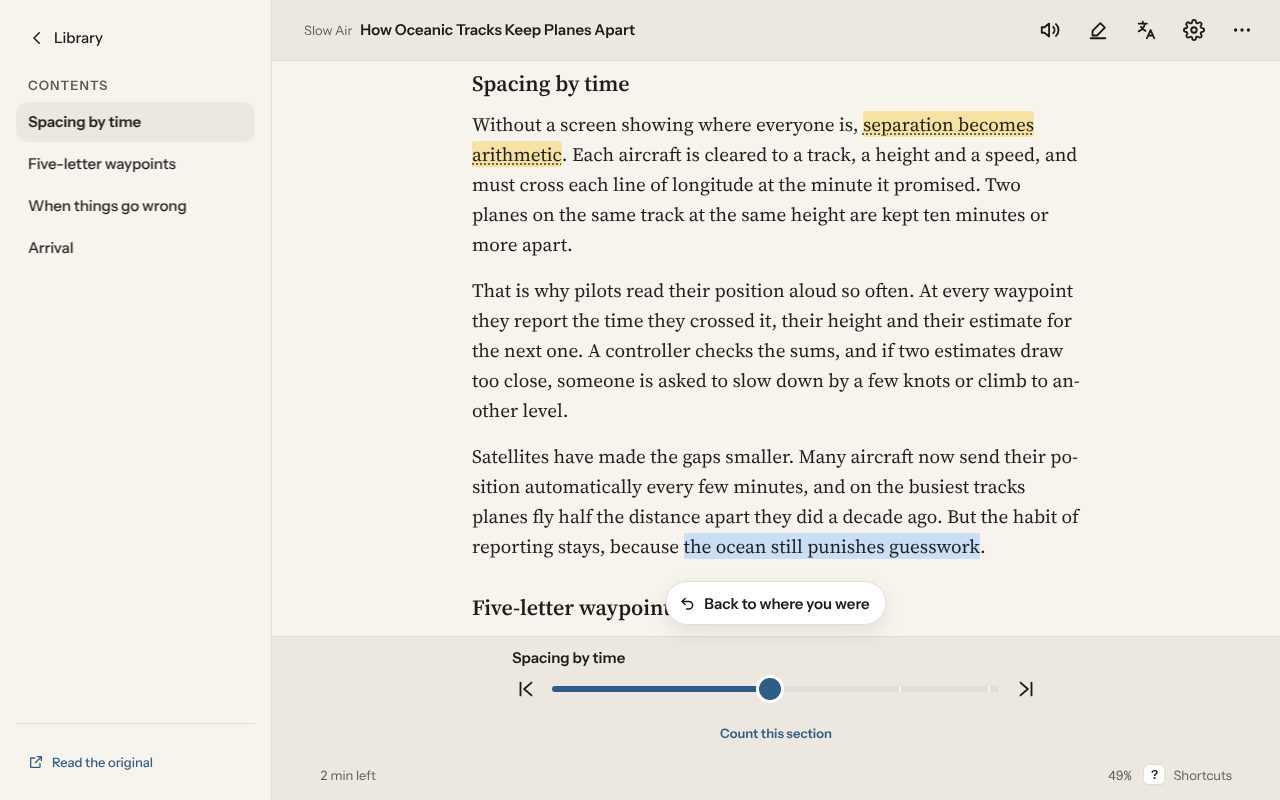
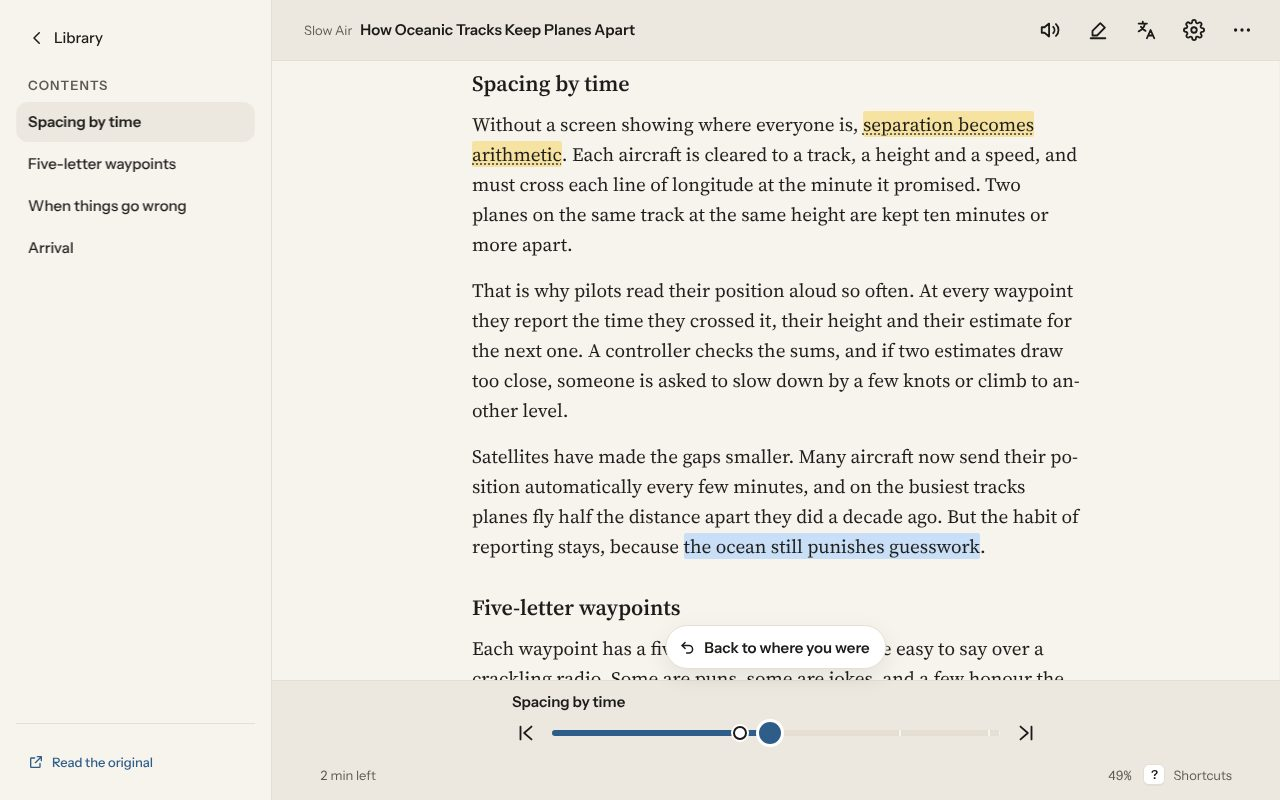
Release 1.48.4: skim mark, Time left in, Drive pick row (#191)
* Release 1.48.0: compact Settings with search, drop-downs, help behind ?, Credits

Every Settings row is a name and one short line; the explanation sits
behind a ? on the section heading. A search box at the top finds any
setting from the screens themselves. Option lists are drop-down rows,
themes a swatch grid. About gets Credits. Presses, switches and
drop-downs answer with motion.

Claude-Session: https://claude.ai/code/session_01CFeKri88aqbarNXwJJ7zZ1

* Credits lists only code, fonts and services

Daniel asked for no names in Credits; the commit history is the record.

Claude-Session: https://claude.ai/code/session_01CFeKri88aqbarNXwJJ7zZ1

* Credits comment matches

Claude-Session: https://claude.ai/code/session_01CFeKri88aqbarNXwJJ7zZ1

* Credits comment, second line

Claude-Session: https://claude.ai/code/session_01CFeKri88aqbarNXwJJ7zZ1

* Preview builds: a branch's build from About, and back to the release

Every branch with an open pull request gets its APK on the pre-release
preview-<branch> (tools/preview-release.sh, remade on each push; the iOS
workflow adds the IPA; preview-cleanup.yml removes it with the branch).
Settings > About > Preview builds lists them from the public releases
list, installs one through the update download, and Back to the release
puts the released version back; a branch that raised APP_VERSION needs
an uninstall and the row says so. app-build.json carries the branch and
[…]

Changed region(s): [[0.375, 0.75, 0.8125, 0.9375]]

diff --git a/index.html b/index.html
@@ -8,8 +8,8 @@
   <link rel="manifest" href="manifest.json">
   <link rel="icon" href="icon.svg" type="image/svg+xml">
   <link rel="apple-touch-icon" href="icons/apple-touch-icon.png">
-  <link rel="stylesheet" href="src/fonts.css?v=1.48.3">
-  <link rel="stylesheet" href="src/styles.css?v=1.48.3">
+  <link rel="stylesheet" href="src/fonts.css?v=1.48.4">
+  <link rel="stylesheet" href="src/styles.css?v=1.48.4">
 </head>
 <body>
   <div class="app" id="libraryView">
@@ -152,12 +152,11 @@
           <button class="icon-btn" id="skimPrev" type="button" aria-label="Previous chapter">
             <svg width="22" height="22" viewBox="0 0 24 24" fill="none" stroke="currentColor" stroke-width="2" stroke-linecap="round" stroke-linejoin="round" aria-hidden="true"><path d="M6 5v14M18 5l-8 7 8 7"></path></svg>
           </button>
-          <div class="skim-track" id="skimTrack" role="slider" tabindex="0" aria-label="Skim" aria-valuemin="0" aria-valuemax="100" aria-valuenow="0"><span class="skim-rail"><span class="skim-fill" id="skimFill"></span><span class="skim-ticks" id="skimTicks"></span></span><span class="skim-knob" id="skimKnob"></span></div>
+          <div class="skim-track" id="skimTrack" role="slider" tabindex="0" aria-label="Skim" aria-valuemin="0" aria-valuemax="100" aria-valuenow="0"><span class="skim-rail"><span class="skim-fill" id="skimFill"></span><span class="skim-ticks" id="skimTicks"></span></span><span class="skim-from" id="skimFrom" hidden></span><span class="skim-knob" id="skimKnob"></span></div>
           <button class="icon-btn" id="skimNext" type="button" aria-label="Next chapter">
             <svg width="22" height="22" viewBox="0 0 24 24" fill="none" stroke="currentColor" stroke-width="2" stroke-linecap="round" stroke-linejoin="round" aria-hidden="true"><path d="M18 5v14M6 5l8 7-8 7"></path></svg>
           </button>
         </div>
-        <button class="skim-left" id="skimLeft" type="button" hidden></button>
       </div>
       <div class="read-left">
         <span class="read-section" id="readSection" dir="auto" aria-hidden="true"></span>
@@ -375,36 +374,36 @@
     </div>
   </section>
 
-  <script src="src/platform.js?v=1.48.3"></script>
-  <script src="src/motion.js?v=1.48.3"></script>
-  <script src="src/vendor/Readability.js?v=1.48.3"></script>
-  <script src="src/store.js?v=1.48.3"></script>
-  <script src="src/save.js?v=1.48.3"></script>
-  <script src="src/feeds.js?v=1.48.3"></script>
-  <script src="src/backup.js?v=1.48.3"></script>
-  <script src="src/imports.js?v=1.48.3"></script>
-  <script src="src/dict.js?v=1.48.3"></script>
-  <script src="src/sync.js?v=1.48.3"></script>
-  <script src="src/drive.js?v=1.48.3"></script>
-  <script src="src/qr.js?v=1.48.3"></script>
-  <script src="src/stats.js?v=1.48.3"></script>
-  <script src="src/epub.js?v=1.48.3"></script>
-  <script src="src/files.js?v=1.48.3"></script>
-  <script src="src/pdf.js?v=1.48.3"></script>
-  <script src="src/reader.js?v=1.48.3"></script>
-  <script src="src/app.js?v=1.48.3"></script>
-  <script src="src/app-reading.js?v=1.48.3"></script>
-  <script src="src/app-cards.js?v=1.48.3"></script>
-  <script src="src/app-downloads.js?v=1.48.3"></script>
-  <script src="src/app-search.js?v=1.48.3"></script>
-  <script src="src/app-draw.js?v=1.48.3"></script>
-  <script src="src/app-jobs.js?v=1.48.3"></script>
-  <script src="src/app-reader.js?v=1.48.3"></script>
-  <script src="src/app-library.js?v=1.48.3"></script>
-  <script src="src/app-saving.js?v=1.48.3"></script>
-  <script src="src/app-places.js?v=1.48.3"></script>
-  <script src="src/app-settings.js?v=1.48.3"></script>
-  <script src="src/app-lock.js?v=1.48.3"></script>
-  <script src="src/app-start.js?v=1.48.3"></script>
+  <script src="src/platform.js?v=1.48.4"></script>
+  <script src="src/motion.js?v=1.48.4"></script>
+  <script src="src/vendor/Readability.js?v=1.48.4"></script>
+  <script src="src/store.js?v=1.48.4"></script>
+  <script src="src/save.js?v=1.48.4"></script>
+  <script src="src/feeds.js?v=1.48.4"></script>
+  <script src="src/backup.js?v=1.48.4"></script>
+  <script src="src/imports.js?v=1.48.4"></script>
+  <script src="src/dict.js?v=1.48.4"></script>
+  <script src="src/sync.js?v=1.48.4"></script>
+  <script src="src/drive.js?v=1.48.4"></script>
+  <script src="src/qr.js?v=1.48.4"></script>
+  <script src="src/stats.js?v=1.48.4"></script>
+  <script src="src/epub.js?v=1.48.4"></script>
+  <script src="src/files.js?v=1.48.4"></script>
+  <script src="src/pdf.js?v=1.48.4"></script>
+  <script src="src/reader.js?v=1.48.4"></script>
+  <script src="src/app.js?v=1.48.4"></script>
+  <script src="src/app-reading.js?v=1.48.4"></script>
+  <script src="src/app-cards.js?v=1.48.4"></script>
+  <script src="src/app-downloads.js?v=1.48.4"></script>
+  <script src="src/app-search.js?v=1.48.4"></script>
+  <script src="src/app-draw.js?v=1.48.4"></script>
+  <script src="src/app-jobs.js?v=1.48.4"></script>
+  <script src="src/app-reader.js?v=1.48.4"></script>
+  <script src="src/app-library.js?v=1.48.4"></script>
+  <script src="src/app-saving.js?v=1.48.4"></script>
+  <script src="src/app-places.js?v=1.48.4"></script>
+  <script src="src/app-settings.js?v=1.48.4"></script>
+  <script src="src/app-lock.js?v=1.48.4"></script>
+  <script src="src/app-start.js?v=1.48.4"></script>
 </body>
 </html>

diff --git a/src/app-reader.js b/src/app-reader.js
@@ -1983,6 +1983,9 @@ function readingControls(withTheme) {
     ], r.margins, (v) => setReading({ margins: v }))),
     ...(brightSwitch(id) || []),
     // Under Layout since 1.47.0: it adds a line to the page, not to the type.
+    row("Time left in", seg(id + "-leftIn", "Time left in", [
+      { value: "part", label: "Section" }, { value: "clip", label: "Whole" },
+    ], leftIn(state.open), setLeftIn)),
     spentSwitch(),
     // Big screens (1.5.0): two pages side by side, and the contents
     // beside the text.
@@ -2483,6 +2486,12 @@ function saveLinked(urls, folder) {
   toast("They save when you're back online. They're in Downloads.");
 }
 
+// Where Back would take you, as a mark on the skim track (1.48.4).
+function paintFrom() {
+  const mark = $("skimFrom");
+  mark.hidden = !jumpFrom;
+  if (jumpFrom) mark.style.insetInlineStart = (jumpFrom.at * 100).toFixed(2) + "%";
+}
 function jumped(spot) {
   if (!jumpFrom) jumpFrom = { spot, at: C.reader.position() };
   $("jumpBack").hidden = false;
@@ -2493,6 +2502,7 @@ $("jumpBack").addEventListener("click", () => {
   closeSkim();
   jumpFrom = null;
   $("jumpBack").hidden = true;
+  paintFrom();
   if (from && state.open) { C.reader.jump(from.at, from.spot, true); voiceHere(1000); }
 });
 
@@ -2588,14 +2598,12 @@ function skimShow(at) {
 function skimPaint(at) {
   $("skimFill").style.transform = "scaleX(" + at + ")";
   $("skimKnob").style.insetInlineStart = (at * 100).toFixed(2) + "%";
+  paintFrom();
   const [a, b] = skimText(at);
   $("skimPart").textContent = b ? a : "";
   const track = $("skimTrack");
   track.setAttribute("aria-valuenow", String(Math.round(at * 100)));
   track.setAttribute("aria-valuetext", skimText(at).join(", "));
-  const p = state.open, top = C.reader.parts().filter((x) => x.level === 2).length >= 2;
-  $("skimLeft").hidden = !top;
-  if (top) $("skimLeft").textContent = leftIn(p) === "part" ? "Count the whole " + (isBook(p) ? "book" : "clip") : "Count this " + (isBook(p) ? "chapter" : "section");
 }
 // The chapter at `at` and where that is: page 12 of 340, or 42%.
 function skimText(at) {
@@ -2646,7 +2654,6 @@ $("readFoot").querySelector(".read-left").addEventListener("click", (e) => {
 });
 $("skimPrev").addEventListener("click", () => skimPart($("skimTrack").dir === "rtl" ? 1 : -1));
 $("skimNext").addEventListener("click", () => skimPart($("skimTrack").dir === "rtl" ? -1 : 1));
-$("skimLeft").addEventListener("click", () => { toggleLeft(); skimPaint(C.reader.position()); });
 {
   const track = $("skimTrack");
   let down = null;
@@ -2707,15 +2714,15 @@ function partLeft(p, at) {
   const mins = Math.max(1, Math.ceil(clipMinutes(p) * Math.max(0, (next ? next.at : 1) - at)));
   return mins + " min left in " + (isBook(p) ? "chapter" : "section");
 }
-function toggleLeft() {
-  const p = state.open;
-  if (!p || C.reader.parts().filter((x) => x.level === 2).length < 2) return;
-  const all = load(LEFT_KEY, {});
-  const to = leftIn(p) === "part" ? "clip" : "part";
-  all[isBook(p) ? "book" : "clip"] = to;
-  store(LEFT_KEY, all);
+// Settings › Reading › Layout "Time left in" (1.48.4; a button on the
+// skim bar before). One choice for books and clips alike.
+function setLeftIn(v) {
+  store(LEFT_KEY, { book: v, clip: v });
+  document.querySelectorAll('input[name$="-leftIn"]').forEach((i) => { i.checked = i.value === v; });
+  if (!state.open) return;
   $("readSection").dataset.at = "";
   readerFoot(C.reader.position());
+  if (skimUp()) skimPaint(C.reader.position());
 }
 // A tick on the line where each chapter starts, while they fit apart.
 let ticksOf = null;

diff --git a/src/app-saving.js b/src/app-saving.js
@@ -1938,13 +1938,13 @@ function driveSections() {
             el("span", { class: "choice-label accent" }, "Back up now"),
             el("span", { class: "choice-note" + (l.error && !driveRun ? " warn" : ""), id: "driveStatus", role: "status" }, status))),
         driveRun ? el("div", { class: "row" }, driveControls("drive-actions")) : null),
-      // How often (1.46.0; it was a weekly switch), in a drop-down (1.47.0).
+      // How often (1.46.0; it was a weekly switch), a pick row like the
+      // other settings' (1.48.4; a drop-down under its name from 1.47.0).
       el("div", { class: "group" },
-        el("div", { class: "rc-list" },
-          el("div", { class: "rc-row stack" }, el("span", { class: "rc-label" }, "Back up by itself"),
-            dropdown({ label: "Back up by itself", cls: "field-pick drive-every", value: C.drive.auto ? String(C.drive.every) : "off",
-              options: [...C.drive.EVERY.map((d) => ({ value: String(d), label: DRIVE_EVERY[d] })), { value: "off", label: "Only when I ask" }],
-              onpick: (v) => { if (v === "off") C.drive.auto = false; else { C.drive.every = Number(v); C.drive.auto = true; } renderSection(); } }))))),
+        pickRow({ label: "Back up by itself", cls: "drive-every", get: () => (C.drive.auto ? String(C.drive.every) : "off"),
+          set: (v) => { if (v === "off") C.drive.auto = false; else { C.drive.every = Number(v); C.drive.auto = true; } renderSection(); },
+          options: [...C.drive.EVERY.map((d) => ({ value: String(d), label: DRIVE_EVERY[d], note: "And whenever you ask" })),
+            { value: "off", label: "Only when I ask", note: "Back up now, above" }] }))),
     section("What goes in", "Tags, collections, favourites and your reading stats go with the clips. Links only makes a backup much smaller, but a clip whose page changed or went away comes back different or not at all" + (C.platform.native ? "" : ", and this browser can only save Wikipedia pages again") + "; books you copied in and newsletter mails still go in whole. Files read from outside and watched folders stay where they are, and settings don't go in.",
       el("div", { class: "group" },
         sw("clips", "Clips", what.links ? "Links, highlights and places" : "Text, pictures, highlights and places"),

diff --git a/src/styles.css b/src/styles.css
@@ -919,7 +919,7 @@ html.native .find-bar { padding-top: calc(var(--s-2) + env(safe-area-inset-top))
   animation: skim-up var(--spring-control-ms, 300ms) var(--spring-control-edge, ease-out);
 }
 .skim-bar > * { max-width: 34rem; margin-inline: auto; }
-.skim-bar[hidden], .skim-left[hidden], .skim-row .icon-btn[hidden] { display: none; }
+.skim-bar[hidden], .skim-row .icon-btn[hidden] { display: none; }
 .reader.bar-away .skim-bar { display: none; }
 .skim-head { display: flex; align-items: baseline; gap: var(--s-3); padding: 0 var(--s-2); }
 .skim-part { flex: 1; min-width: 0; overflow: hidden; text-overflow: ellipsis; white-space: nowrap; font-size: var(--fs-label); font-weight: 600; }
@@ -934,16 +934,18 @@ html.native .find-bar { padding-top: calc(var(--s-2) + env(safe-area-inset-top))
 .skim-fill { display: block; height: 100%; background: var(--accent); transform: scaleX(0); transform-origin: left; }
 .skim-track[dir="rtl"] .skim-fill { transform-origin: right; }
 .skim-ticks { position: absolute; inset: 0; }
+/* Where Back goes: a short line through the rail (1.48.4). */
+.skim-from {
+  position: absolute; top: 50%; width: 14px; height: 14px; margin-top: -7px; margin-inline-start: -7px;
+  border-radius: var(--r-full); border: 2px solid var(--ink); background: var(--surface); box-shadow: 0 0 0 2px var(--surface);
+}
+.skim-from[hidden] { display: none; }
 .skim-knob {
   position: absolute; top: 50%; width: 22px; height: 22px; margin-top: -11px; margin-inline-start: -11px;
   border-radius: var(--r-full); background: var(--accent); box-shadow: 0 0 0 3px var(--surface);
   transition: scale var(--spring-control-ms, 300ms) var(--spring-control, ease-out);
 }
 .reader.skimming .skim-knob { scale: 1.2; }
-.skim-left {
-  display: block; min-height: var(--tap); padding: 0 var(--s-3);
-  border: 0; background: none; color: var(--accent); font: 600 var(--fs-meta)/1 var(--sans);
-}
 @keyframes skim-up { from { transform: translateY(100%); } }
 :root[data-motion="off"] .skim-bar { animation: none; }
 @media (prefers-reduced-motion: reduce) {

diff --git a/test/ui.test.js b/test/ui.test.js
@@ -656,10 +656,13 @@ function zipOf(files) {
       await until(q, () => Waypage.reader.section() === "Chapter 6: Turbulence");
       await q.locator("#skimPrev").click();
       await until(q, () => Waypage.reader.section() === "Chapter 5: Dinner");
-      // The minutes count switches from the bar.
-      await q.locator("#skimLeft").click();
+      // The minutes count switches from Reading › Layout (Time left in).
+      await q.evaluate(() => toggleSheet("reading"));
+      await q.locator('#readingSheet .sheet-tabs .seg-item:has(input[value="layout"])').click();
+      await q.locator('#readingSheet .seg-item:has(input[name$="-leftIn"][value="part"])').click();
+      await q.evaluate(() => toggleSheet("reading"));
       assert.match(await q.locator("#readSection").innerText(), /min left in section/);
-      await q.locator("#readSection").click();
+      // Opening the sheet closed the skim.
       await q.locator("#skimBar").waitFor({ state: "hidden" });
       assert.strictEqual(await q.locator("#jumpBack").isVisible(), true, "no way back");
       await q.waitForTimeout(700);

diff --git a/src/app-settings.js b/src/app-settings.js
@@ -82,7 +82,7 @@ function navRow(label, note, onclick) {
 function pickRow(g) {
   const at = () => g.options.find((o) => o.value === g.get()) || g.options[0];
   const note = el("span", { class: "choice-note" }, g.note || at().note || "");
-  const pick = dropdown({ label: g.label, cls: "field-pick row-pick", value: at().value, options: g.options.map((o) => ({ value: o.value, label: o.label })),
+  const pick = dropdown({ label: g.label, cls: "field-pick row-pick" + (g.cls ? " " + g.cls : ""), value: at().value, options: g.options.map((o) => ({ value: o.value, label: o.label })),
     onpick: (v) => { g.set(v); const o = g.options.find((x) => x.value === v); note.textContent = g.note || (o && o.note) || ""; } });
   const row = el("div", { class: "row pick-row" },
     el("span", { class: "choice-text" }, el("span", { class: "choice-label" }, g.label), note),

diff --git a/src/app.js b/src/app.js
@@ -13,7 +13,7 @@
 // app-cards, app-downloads, app-search, app-draw, app-jobs, app-reader,
 // app-library, app-saving, app-places, app-settings, app-lock, and
 // app-start, which runs last and starts things up.
-const APP_VERSION = "1.48.3";
+const APP_VERSION = "1.48.4";
 window.Waypage.version = APP_VERSION;
 
 const C = window.Waypage;

diff --git a/sw.js b/sw.js
@@ -7,7 +7,7 @@
 // release's changed files new URLs. Third-party requests are never touched.
 //
 // ASSETS is also exactly what tools/build-www.js copies into the app.
-const CACHE = "waypage-v105";
+const CACHE = "waypage-v106";
 const ASSETS = [
   "./", "./index.html",
   "./src/fonts.css", "./src/styles.css", "./src/reader.css",

diff --git a/CLAUDE.md b/CLAUDE.md
@@ -50,7 +50,10 @@ These are on top of CONTRIBUTING.md, for Claude sessions only.
   "shall I merge".
 - **When he says "don't build yet" or "fixes only",** commit locally and
   don't push (a branch push builds too) until he says build.
-- **Small asks he lists without "add to TODO", build now.**
+- **Small asks he lists without "add to TODO", do now,** but commit
+  them on the branch and wait for his "Build" (or "Ship") before pushing
+  or opening the release PR. He said so on 1 Nov 2026 after a release
+  went out unasked. A branch push builds a preview, so hold that too.
 - **Several asks go out as one release,** or two at most when grouped;
   don't split them into many.
 - **App stores aren't a priority.** Don't bring up store prep.

diff --git a/CHANGELOG.md b/CHANGELOG.md
@@ -2,6 +2,16 @@
 
 All notable changes to Carry-on. Newest first.
 
+## [1.48.4] - 2026-11-01
+
+### Changed
+- Reader: while skimming, a ring on the bar marks where Back takes you.
+- Settings › Reading › Layout "Time left in": Section or Whole, one
+  choice for clips and books. It was the Count this section button on
+  the skim bar.
+- Settings › Google Drive: Back up by itself is a row like the other
+  picks, its choice at the end, not a drop-down under its name.
+
 ## [1.48.3] - 2026-11-01
 
 ### Changed
